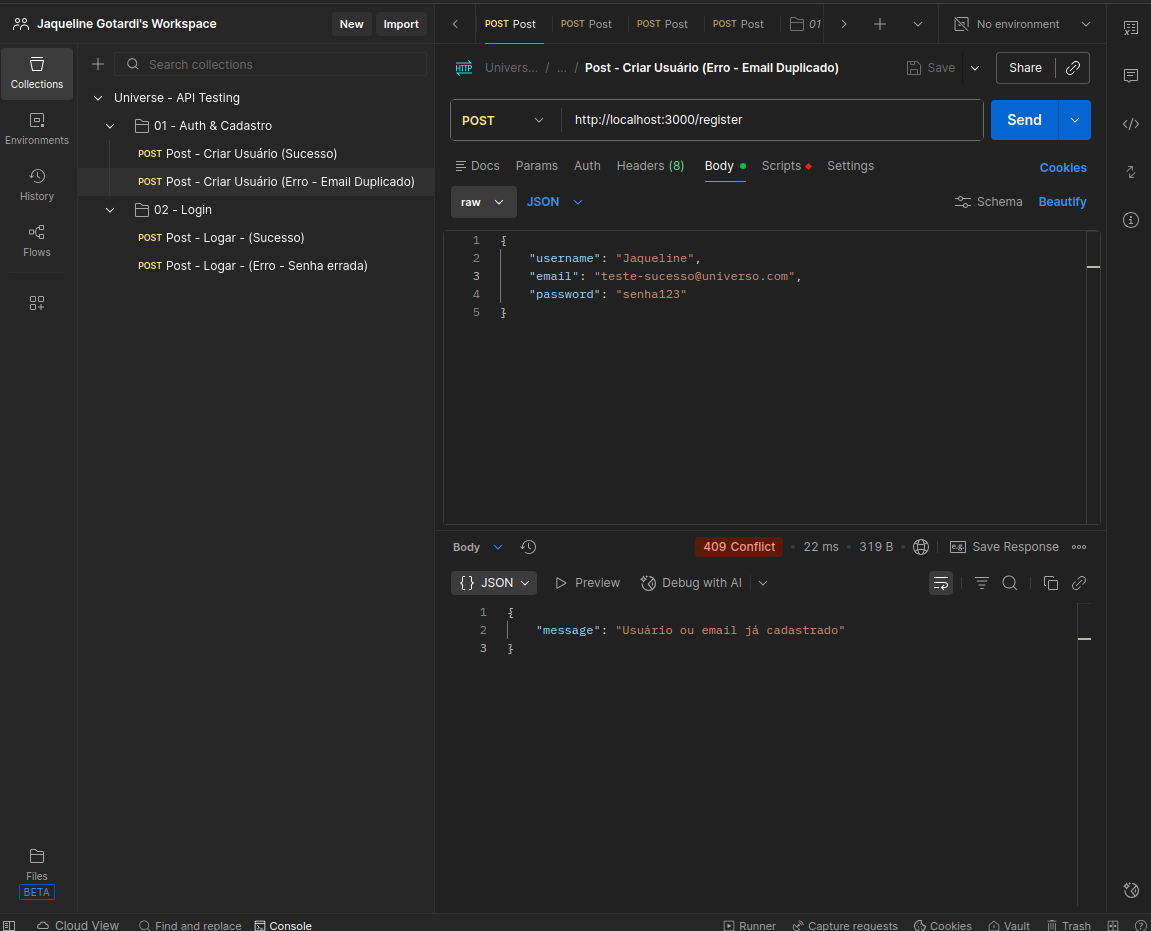
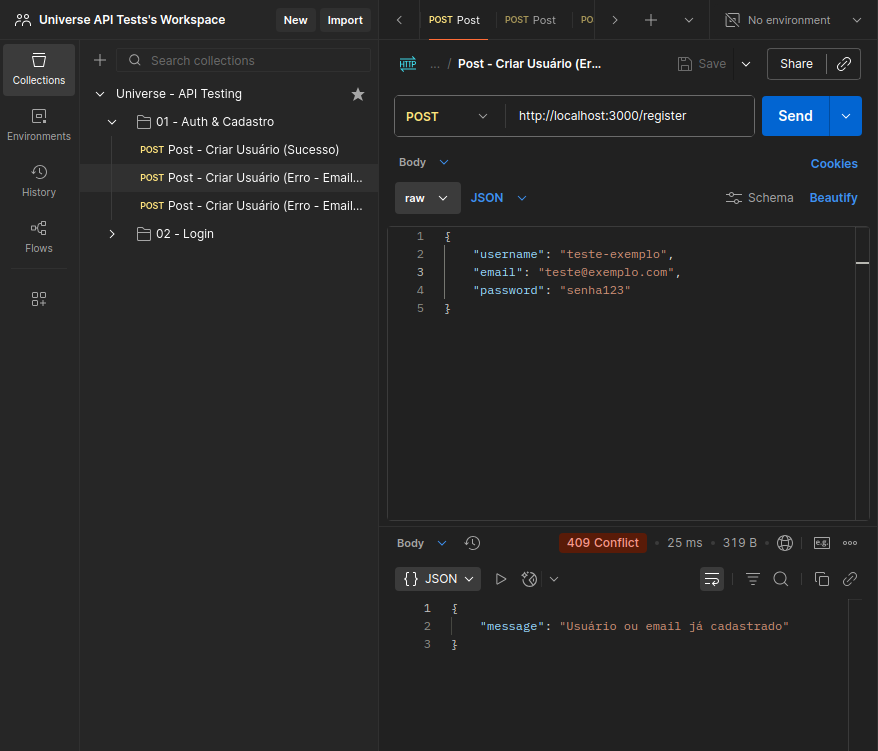
docs: ajustes no relatório de caso de testes

diff --git a/TESTES.md b/TESTES.md
@@ -1,88 +1,73 @@
 # 🧪 Relatório de Testes: Módulo de Autenticação (Universe)
 
 ## 🎯 Objetivo
-Validar os fluxos de criação de conta e autentificação para garantir a integridade e segurança do acesso ao sistema.
+Validar os fluxos de criação de conta e autenticação para garantir a integridade e segurança do acesso ao sistema.
 
 ## 🛠 Tecnologias e Ferramentas
 - **Ferramenta:** Postman
 - **Banco de Dados:** DBeaver para validação SQL
 - **Documentação:** Markdown
-- **Ambiente:** Localhost:3000 
+- **Ambiente:** Localhost:3000
 
 ## 🚀 Metodologia
 - **Nível de Teste:** Integração (Backend + Banco de dados)
 - **Tipo de Teste:** Funcional
 - **Técnica:** Caixa Preta
-- **Abordagem:** Testes de Caminho Feliz e Caminho triste.
 
 ---
 
-### CT-01 - Validar cadastro de um usuário novo (Caminho feliz)
-- **Descrição:** Criar um cadastro novo no banco de dados.
-- **Pré-condições:** Servidor Backend deve está em execução e banco de dados conectados. 
-- **Passos:** 1. Inserir a URL http://localhost:3000/register
-              2. Definir o método como POST
-              3. Enviar no Body em formato de json: 
-              ```json 
+### CT-01 - Validar cadastro de um usuário novo 
+- **Descrição:** Verificar se o sistema permite a criação de um novo cadastro único.
+- **Pré-condições:** Servidor Backend deve estar em execução e banco de dados conectado. 
+- **Dados de teste (exemplo):** 
+          ```json 
               { 
-                "username": "Jaqueline",
-                 "email": "teste-sucesso@universo.com",
+                "username": "teste-exemplo",
+                 "email": "teste@exemplo.com",
                   "password": "senha123"
                   } ```
-- **Resultado Esperado:** O sistema deve mostrar status 201, com a mensagem: "Usuário cadastrado com sucesso!".
-- **Resultado Obtido:** Um novo cadastro foi inserido no Banco de Dados.
-- **Evidência:** ![Cadastro Sucesso](./docs/test-evidence/01-cadastro-sucesso.png)
+- **Passos:** 1. Realizar a requisição POST no endpoint /register
+              2. No corpo (body) da requisição, enviar Json com dados válidos (conforme o exemplo acima). 
+- **Resultado Esperado:** 1. Status Code: 201 Created,
+                          2. Mensagem: "Usuário cadastrado com sucesso!".
+                          3. O registro deve constar no banco de dados.
+- **Resultado Obtido:** Conforme o esperado, um novo cadastro foi inserido no Banco de Dados.
 
-### CT-02 - Validar cadastro de um usuário já existente (Caminho triste)
-- **Descrição:** Criar cadastro com os mesmo dados de um usuário já inserido no Banco de dados.
-- **Pré-condições:** Servidor Backend deve está em execução e banco de dados conectados. 
-- **Passos:** 1. Inserir a URL http://localhost:3000/register
-              2. Definir o método como POST
-              3. Enviar no Body em formato de json: 
-                 ``` json 
-                 { 
-                    "username": "Jaqueline",
-                    "email": "teste-sucesso@universo.com",
-                    "password": "senha123"
-                    } ```
-- **Resultado Esperado:** O sistema deve retornar status 409, com a mensagem: "Usuário ou email já cadastrado!".
+- **Evidência:** ![Cadastro Sucesso](./docs/test-evidence/01-cadastro-sucesso.png) 
+
+### CT-02 - Validar cadastro de usuário com credenciais duplicadas 
+- **Descrição:** Validar restrição de unicidade para username e e-mail já existentes.
+- **Pré-condições:** Servidor Backend deve estar em execução e banco de dados conectados. 
+- **Passos:** 1. Repetir a requisição POST em /register com os mesmos dados de teste do CT-01.
+- **Resultado Esperado:** Status 409 (conflict), com a mensagem: "Usuário ou email já cadastrado!".
+
 - **Resultado Obtido:** Usuário não é cadastrado, dar erro de conflito com dados já existentes.
-- **Evidência:** ![Cadastro Erro](./docs/test-evidence/02-cadastro-erro.png)
+
+- **Evidência:** ![Cadastro Erro](./docs/test-evidence/02-cadastro-erro.png) 
 
 
-### CT-03 - Validar login com dados já inseridos no Banco de Dados (Caminho feliz)
-- **Descrição:** Logar com os dados de um cadastro já criado.
-- **Pré-condições:** Servidor Backend deve está em execução e banco de dados conectados. 
-- **Passos:** 1. Inserir a URL http://localhost:3000/login
-              2. Definir o método como POST
-              3. Enviar no Body em formato de json: 
-                 ```json 
-                 { 
-                    "email": "teste-sucesso@universo.com",
-                    "password": "senha123"
-                    } ```
-- **Resultado Esperado:** O sistema deve retornar status 200 e mostrar a mensagem: "Login bem-sucedido!" e um Token de acesso deve ser gerado.
-- **Resultado Obtido:** Login feito com sucesso e o Token foi gerado.
-- **Evidência:** ![Login Sucesso](./docs/test-evidence/03-login-sucesso.png)
+### CT-03 - Autenticação de usuário com credenciais válidas
+- **Descrição:** Logar com os dados de um cadastro já criado e validar geração de Token.
+- **Pré-condições:** Servidor Backend deve estar em execução e banco de dados conectados. 
+- **Passos:** 1. Realizar requisição POST em /login
+              2. Enviar e-mail e password cadastrado no CT-01
+- **Resultado Esperado:** Status 200, com a mensagem: "Login bem-sucedido!" e um Token de acesso deve ser gerado no corpo da resposta.
+- **Resultado Obtido:** Login autorizado e Token gerado com sucesso.
+- **Evidência:** ![Login Sucesso](./docs/test-evidence/03-login-sucesso.png) 
 
-### CT-04 - Validar login com dados não inseridos no Banco de Dados (Caminho triste)
-- **Descrição:** Logar com os dados de um cadastro não feito.
-- **Pré-condições:** Servidor Backend deve está em execução e banco de dados conectados. 
-- **Passos:** 1. Inserir a URL http://localhost:3000/login
-              2. Definir o método como POST
-              3. Enviar no Body em formato de json: 
-                 ```json
-                 { 
-                    "email": "teste-sucesso@universo.com",
-                    "password": "123456789"
-                    } ```
-- **Resultado Esperado:** O sistema deve retornar status 401, e exibir a mensagem: "Senha inválida!" e o Token não deve ser gerado.
+### CT-04 - Validar login com senha incorreta
+- **Descrição:** Verificar bloqueio de acesso para senha divergente da cadastrada.
+- **Pré-condições:** Servidor Backend deve estar em execução e banco de dados conectados. 
+- **Passos:** 1. Realizar a requisição POST em /login
+              2. Enviar e-mail válido e password inválido.
+- **Resultado Esperado:** Status 401, com a mensagem: "Senha inválida!" e o Token não deve ser gerado.
 - **Resultado Obtido:** O usuário é barrado com status 401.
-- **Evidência:** ![Login Erro](./docs/test-evidence/04-login-erro.png)
+
+- **Evidência:** ![Login Erro](./docs/test-evidence/04-login-erro.png) 
 
 ## 🗄 Validação de Persistência (SQL)
 - **Processo:** Após o resultado obtido nos casos de teste(CT-01, CT-02, CT-03, CT-04), foi realizada uma consulta no banco de dados para garantir o registro dos dados em todos os casos.
 - **Ferramenta:** DBeaver.
-- **Evidência:** ![Dados Dbeaver](./docs/test-evidence/dados-dbeaver.png)
+- **Evidência:** ![Dados Dbeaver](./docs/test-evidence/bd-cadastro-login.png)
 
 > Nota: Os dados visualizados são fictícios, gerados exclusivamente para fins de teste no ambiente de desenvolvimento
